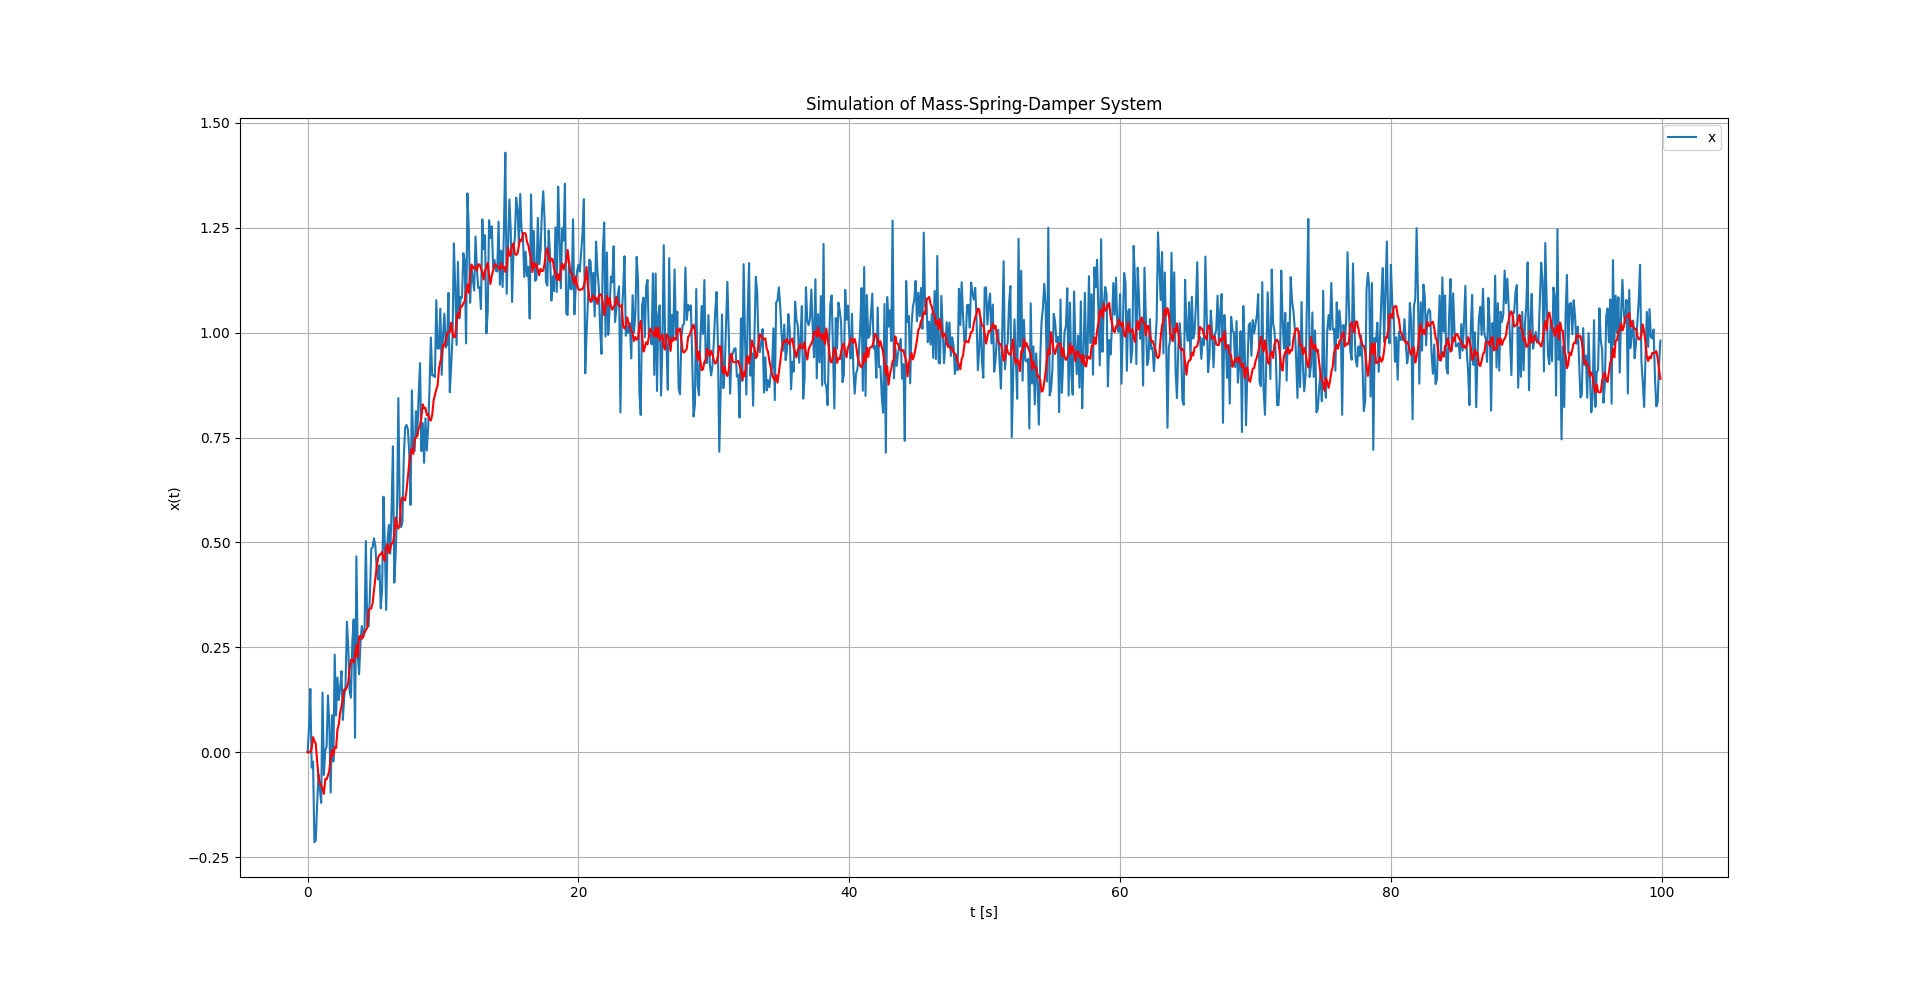
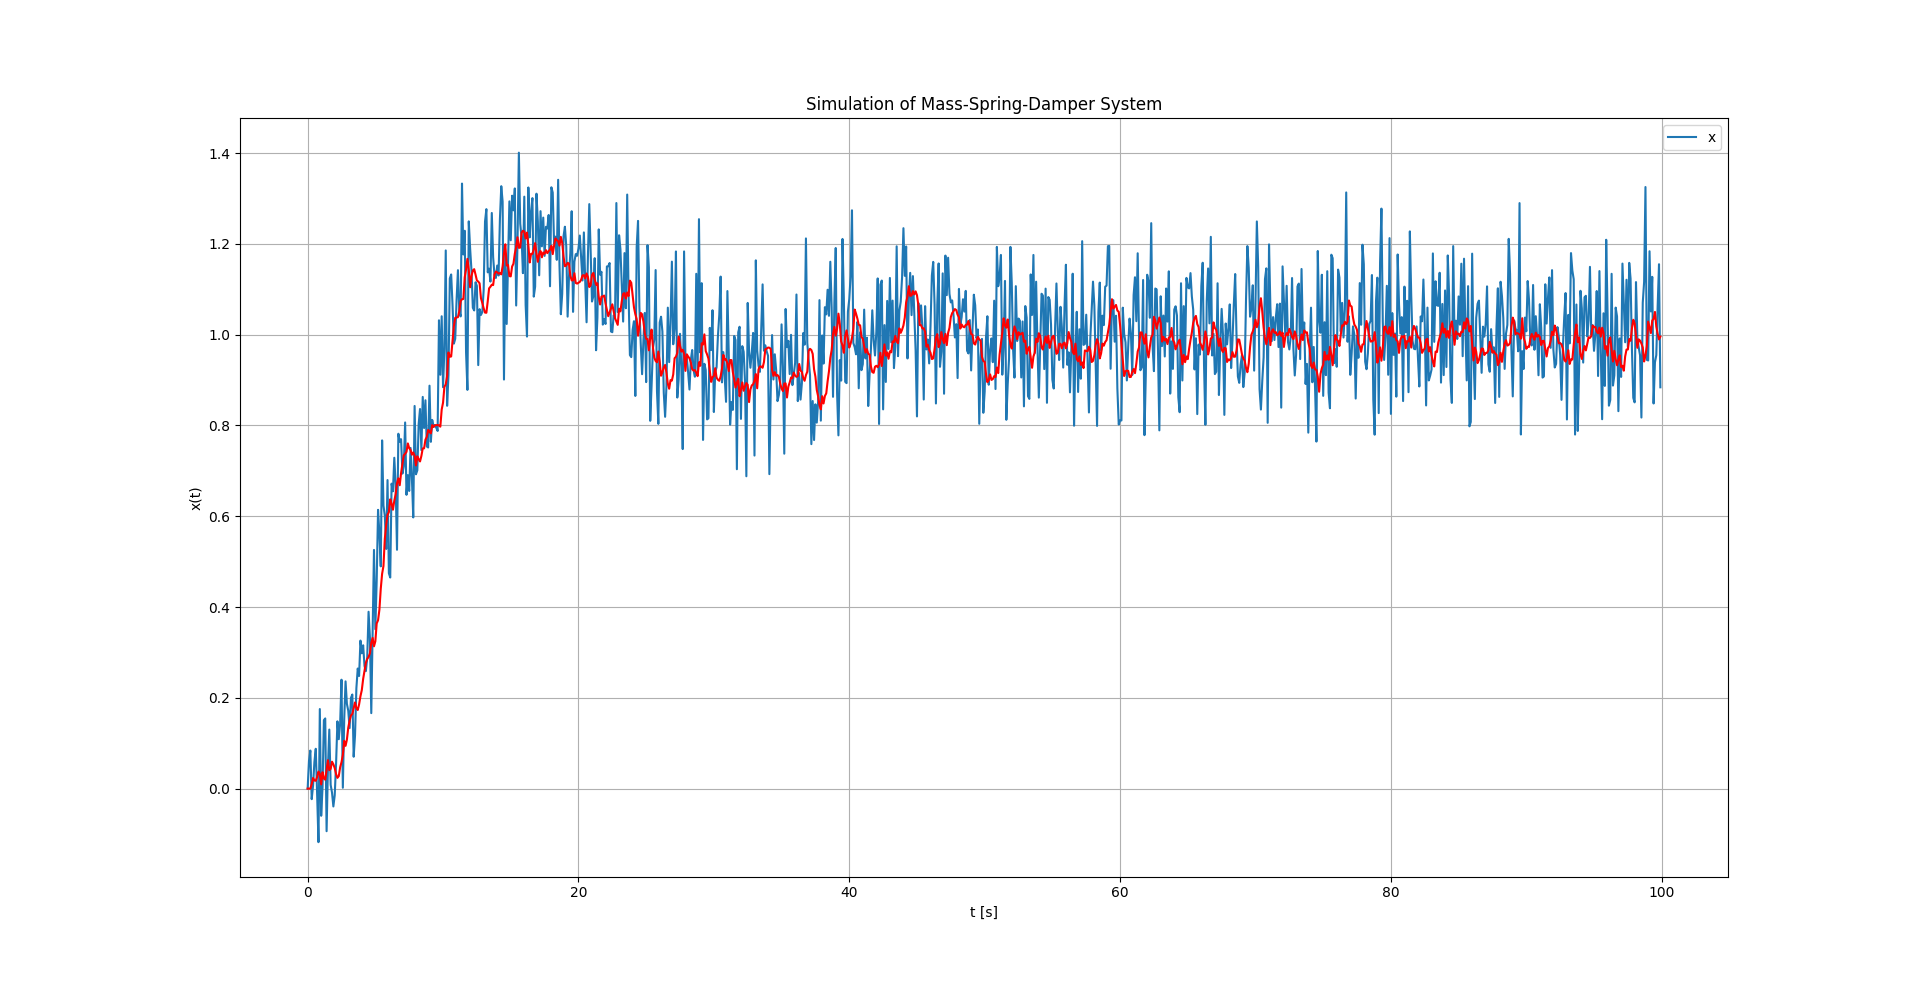
Updated figures

Changed region(s): [[0.1562, 0.1523, 0.875, 0.8528], [0.0938, 0.4264, 0.125, 0.4569]]

diff --git a/examples/example1.py b/examples/example1.py
@@ -62,7 +62,7 @@ if __name__ == "__main__":
         t = np.arange(0, N, Ts)
         model = test.Model(y, A, H, P)
         y = torch.Tensor(y)
-        losses, preds = test.sgd(model, y, int(N/Ts))
+        losses, preds, weights = test.sgd(model, y, int(N/Ts))
         plt.figure()
         plt.plot(t, y)
         plt.plot(t, preds, color='r')
@@ -70,8 +70,13 @@ if __name__ == "__main__":
         plt.xlabel('t [s]')
         plt.ylabel('x(t)')
         plt.grid()
-        plt.legend(["x"])
+        plt.legend(["x", "filtered x"])
         plt.show()
         plt.figure()
         plt.plot(losses)
+        plt.title('Loss Function')
+        plt.show()
+        plt.figure()
+        plt.title('Kalman Gain')
+        plt.plot(t, weights)
         plt.show()

diff --git a/src/kalman/test.py b/src/kalman/test.py
@@ -95,6 +95,7 @@ def sgd(model, y, N, n=1000, lr=1e-3, opt_params='adam'):
     N, Horizon
     '''
     losses = []
+    weights = []
     if opt_params == 'adam':
         opt = torch.optim.Adam(model.parameters(), lr=lr)
     elif opt_params == 'sgd':
@@ -109,7 +110,8 @@ def sgd(model, y, N, n=1000, lr=1e-3, opt_params='adam'):
         opt.step()
         opt.zero_grad()
         losses.append(float(loss))
+        weights.append(float(model.weights))
         pbar.update(1)
     print(model.weights)
     preds = model(N).detach().numpy()
-    return losses, preds
+    return losses, preds, weights

diff --git a/README.md b/README.md
@@ -10,8 +10,11 @@ pip install .
 ```
 python3 examples/example1.py
 ```
-
+### Response
 ![Response](img/Figure_1.png)
+### Error
 ![Error](img/gradient_1.png)
+### Kalman Gain
+![Gain](img/gain_1.png)
 
 
